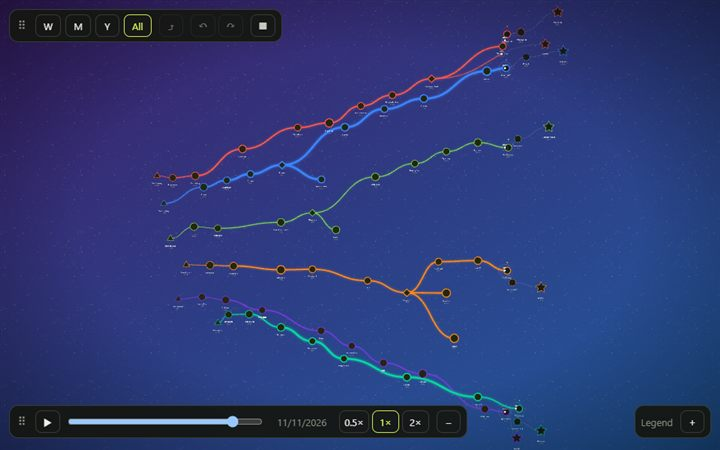
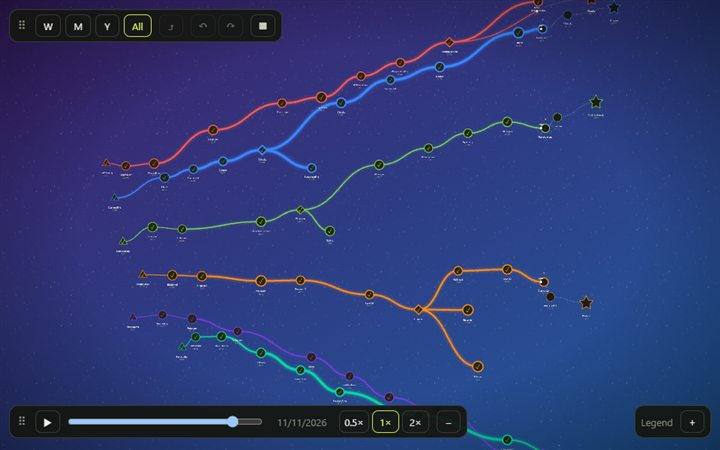
docs: what your app does, heights from the lane, check mark, new screenshots
The section Not in this version is now What your app does. README and CHANGELOG describe the heights and the check mark. Two screenshots with the check marks.

diff --git a/README.md b/README.md
@@ -165,17 +165,18 @@ The [live demo](https://marcus-koch-fs-dev.github.io/world-of-evolving-paths/) s
 | ---------------------------- | ---------------------------------------------------------------------------------------------------------------------------------------------------------------------------- |
 | Insert a point into a line   | Click or right-click the line → **Insert point**. The new point sits between the two points, on the date where you clicked.                                                  |
 | Move a line                  | Drag the arrow at its end, at the edge of the view, up or down. A line without a point in the view moves as a whole. A line from a point moves only its end at the edge.     |
-| Keep the height of a line    | Nothing to do. The height is kept for that connection, in every view.                                                                                                        |
+| Keep the height of a line    | Nothing to do. A dragged end is kept for that period. Without one, the line runs straight to the heights of its points, in week and month alike.                             |
 | See a path that skips a view | A path with points before and after the period, but none inside, runs across the whole view, with the names and dates at both ends. At a fork each branch gets its own line. |
 | Keep lines apart             | Nothing to do. Lines that would lie on top of each other move apart by themselves.                                                                                           |
 
 **Paths grow**
 
-| I want to …             | Do this                                                                                     |
-| ----------------------- | ------------------------------------------------------------------------------------------- |
-| Check in on a path      | Select a point of the path, then the **Check in** button at the bottom right. Once per day. |
-| See what a check-in did | A message at the top shows the active days before and after and what the next tier needs.   |
-| Undo or redo            | The arrow buttons in the top bar, or Ctrl+Z and Ctrl+Y. Up to 100 steps, kept in memory.    |
+| I want to …             | Do this                                                                                                                                   |
+| ----------------------- | ----------------------------------------------------------------------------------------------------------------------------------------- |
+| Check in on a path      | Select a point of the path, then the **Check in** button at the bottom right. Once per day.                                               |
+| Tell done from open     | A point you reached has a check mark in its symbol. The point you are walking to pulses with an arrow, and a point still ahead is dashed. |
+| See what a check-in did | A message at the top shows the active days before and after and what the next tier needs.                                                 |
+| Undo or redo            | The arrow buttons in the top bar, or Ctrl+Z and Ctrl+Y. Up to 100 steps, kept in memory.                                                  |
 
 **Moving around**
 
@@ -278,20 +279,22 @@ You give points without positions and the library lays them out:
 - Points keep `radius + radius` from each other and stay off foreign lines. Lines may cross.
 - The same input and `seed` always give the same layout. Change `seed` for another one.
 
-**Fixing a position (pinning).** A point with `x` and `y` stays exactly there, the others make room around it. A point with only `y` keeps its height and sits on its date along the time axis. That is the way to keep a height in every view, because the date gives a different `x` in a week than in a year. When the user drops a dragged point, `onPointMove` tells you where it ended up, and `positions` holds every point of the view. Store them and pass them back to keep the layout as the user sees it.
+**Heights.** Every path has a lane, and where the lane lies depends on how many paths the view shows: a path can be the first of two in a week and the third of six in the overview. So heights in your data are **distances from the lane of the path** (0 = on the lane, negative = above when time runs left to right). The same number puts a point or a line at the same place next to its path in every view and on every page.
+
+**Fixing a position (pinning).** A point with only `y` sits on its date along the time axis, `y` away from its lane. That is the way to keep a height in every view. When the user drops a dragged point, `onPointMove` gives that height as `offset`: store it per point and pass it back as `y`. A point with `x` and `y` is different: it stays exactly at that place of this one view, and the others make room around it. `positions` in `onPointMove` holds every point of the view for that case.
 
 By default a dragged point moves only across the time axis (`timeLocked: true`), so it always stays on its date and agrees with the marker for today. Set `timeLocked: false` to let it move freely. With `snap` (a distance in world units) dragged and added points sit on a grid.
 
-**Lines the user moves.** Lines that run along the time axis (the lines that leave the view and the ones in `through`) keep apart from each other by themselves. The user can drag the arrow at the end of such a line up or down. `onLineEndMove({ from, to, y })` then tells you the two points of that connection and the new height. Store it and pass it back as `y` on the lead (in `incoming` or `outgoing`) or on the entry in `through`. The line stays where it was dragged until your new data arrives.
+**Lines the user moves.** Lines that run along the time axis (the lines that leave the view and the ones in `through`) keep apart from each other by themselves. The user can drag the arrow at the end of such a line up or down. `onLineEndMove({ from, to, y })` then tells you the two points of that connection and the new height, as a distance from the lane. Store it and pass it back as `y` on the lead (in `incoming` or `outgoing`) or on the entry in `through`. The line stays where it was dragged until your new data arrives. The edge of a week lies on another day than the edge of a month, so keep this height per period. The demo does, and without a stored height it puts the edge on the straight line between the heights of the two points (`demo/app-logic/edgeHeight.ts`), so week and month agree.
 
-**Clicking a line.** `onLineSelect({ from, to, x, y, date, at })` comes when the user clicks or right-clicks a line: a connection between two points, a line that leaves the view, or one that spans it. `from` and `to` are its two ends (`{ id?, title, date }`), `date` is the date where it was clicked. Show a `LineMenu` at `at`, for example with **Insert point**. The demo inserts a point there and puts it between the two points in `next`.
+**Clicking a line.** `onLineSelect({ from, to, x, y, date, lanes, at })` comes when the user clicks or right-clicks a line: a connection between two points, a line that leaves the view, or one that spans it. `from` and `to` are its two ends (`{ id?, title, date }`), `date` is the date where it was clicked, and `lanes` the lane of every path, so `y - lanes[pathId]` is the height for a new point. Show a `LineMenu` at `at`, for example with **Insert point**. The demo inserts a point there and puts it between the two points in `next`.
 
 > [!WARNING]
 > Answer a move with a **new** `PeriodData` object within 80 ms, otherwise the point moves back. Changing the old object in place does not count, the map compares by reference. See [Events](#events).
 
 ### Add points and paths
 
-- The user double-clicks the empty area: `onPointAdd({ x, y, date })` tells you where. You decide whether and how to add a point.
+- The user double-clicks the empty area: `onPointAdd({ x, y, date, lanes })` tells you where. You decide whether and how to add a point. `y - lanes[pathId]` is its height for the path you put it on.
 - The user double-clicks a point: `onPointDoubleClick({ id, date })` tells you which one. The demo uses it to go one level deeper, to the period of that date.
 - The `PointMenu` control has a **Next point** panel. It calls your `onAddNext({ title, date, newPath, color, pathName })`. With `newPath` you create a new `Path` with that color and `pathName` (if empty, use the title) and put the point on it. Without it, the point joins the path of the selected point.
 - A new path is just another entry in `paths`. Give it an `id`, a `name`, a `color` and its points.
@@ -359,8 +362,8 @@ The option `orientation` sets which way time runs: `horizontal` (left to right),
 | `note`       | `string` (optional)                               | Free text for your app.                                                                                                                                                                         |
 | `strength`   | `number` (0–4, optional)                          | Tier of the connection leading to this point. See [Make paths stronger](#make-paths-stronger).                                                                                                  |
 | `incoming`   | `{ title, date, id?, y? }[]` (optional)           | Points outside this view that lead to this point. The map draws a line from the edge, with title and date. See [Show where a path comes from and goes](#show-where-a-path-comes-from-and-goes). |
-| `outgoing`   | `{ title, date, id?, y? }[]` (optional)           | Points outside this view that this point leads to. The map draws a line to the edge, with title and date. `y` is the height of the line at the edge (see `onLineEndMove`).                      |
-| `x`, `y`     | `number` (optional)                               | Pins the point. Both: exactly there. Only `y`: at this height, on its date. `x` needs `y`.                                                                                                      |
+| `outgoing`   | `{ title, date, id?, y? }[]` (optional)           | Points outside this view that this point leads to. The map draws a line to the edge, with title and date. `y` is the height of the line at the edge, from the lane (see `onLineEndMove`).       |
+| `x`, `y`     | `number` (optional)                               | Only `y`: the height from the lane of the path, on its date, in every view. Both: exactly there in this view. `x` needs `y`.                                                                    |
 
 **`Path`** is one graph with its points: `{ id, name, color, lane?, points, through? }`. `through` lists the connections that span the whole period without a point inside (`PathThrough`, see [Show where a path comes from and goes](#show-where-a-path-comes-from-and-goes)). `color` is `#rrggbb` and stays the same along the whole path. Paths are placed one below the other by `lane` (lowest number first), otherwise in list order.
 
@@ -377,12 +380,12 @@ All events are options of `PathWorld` and `createPathWorld`.
 | Callback                                                | When                                                                                                                                                                                                                                            |
 | ------------------------------------------------------- | ----------------------------------------------------------------------------------------------------------------------------------------------------------------------------------------------------------------------------------------------- |
 | `onSelect(id \| null)`                                  | A point was pressed (also when it is then dragged), or the empty area was clicked (`null`).                                                                                                                                                     |
-| `onPointMove({ id, x, y, positions })`                  | A dragged point was released at its final position.                                                                                                                                                                                             |
-| `onPointAdd({ x, y, date })`                            | The empty area was double-clicked. In a calendar view `date` follows the horizontal position, otherwise it is today. `x`/`y` are map coordinates (not screen pixels), already moved to a free spot.                                             |
+| `onPointMove({ id, x, y, offset, positions })`          | A dragged point was released at its final position. `offset` is its height from the lane of its path: pass it back as `y` to keep it in every view.                                                                                             |
+| `onPointAdd({ x, y, date, lanes })`                     | The empty area was double-clicked. In a calendar view `date` follows the horizontal position, otherwise it is today. `x`/`y` are map coordinates (not screen pixels), already moved to a free spot. `lanes` holds the lane of every path.       |
 | `onPointDoubleClick({ id, date })`                      | A point was double-clicked. `date` is the date of the point. Your app decides what happens, for example a finer view.                                                                                                                           |
 | `onLeadDoubleClick({ pointId, side, title, date, id })` | A line that leaves the view was double-clicked, on its text or on the line. `side` is `'before'` for a line that comes from outside and `'after'` for one that goes on. `title`, `date` and `id` are what you gave in `incoming` or `outgoing`. |
-| `onLineSelect({ from, to, x, y, date, at })`            | A line was clicked or right-clicked. `from` and `to` are its ends, `x`/`y`/`date` the place on the line, `at` the place for a `LineMenu`. See [Keep the layout](#keep-the-layout).                                                              |
-| `onLineEndMove({ from, to, y })`                        | The arrow at the end of a line that leaves or spans the view was dragged and let go. Pass `y` back on the lead or on the `through` entry.                                                                                                       |
+| `onLineSelect({ from, to, x, y, date, lanes, at })`     | A line was clicked or right-clicked. `from` and `to` are its ends, `x`/`y`/`date` the place on the line, `lanes` the lane of every path, `at` the place for a `LineMenu`. See [Keep the layout](#keep-the-layout).                              |
+| `onLineEndMove({ from, to, y })`                        | The arrow at the end of a line that leaves or spans the view was dragged and let go. `y` is the height from the lane. Pass it back on the lead or on the `through` entry.                                                                       |
 | `onError(errors)`                                       | The data of the current view is invalid, or an option such as `today`, `locale` or a background color is invalid (it is then replaced by its default).                                                                                          |
 
 Update your data in these callbacks and pass the new objects back in. The data is yours. If you do not answer a move within 80 ms with a **new** `PeriodData` object for the current view, the point moves back to where it was. Changing the old object in place does not count, the map compares by reference. Sometimes a point cannot stay where it was dropped (no room, or on a foreign line). Then it moves back along its way until it finds a free spot. That spot is what `onPointMove` reports.
@@ -531,9 +534,16 @@ Besides what is shown above, the package exports helpers you may want for your o
 - The first layout of a view costs time with many points: about 150 ms for 200 points and well over a second beyond 500, when none of them is pinned. Pinned points cost almost nothing, so store the positions the user chose (see `onPointMove`). Plan on views with a few dozen points.
 - Adding a point to a path can make the view wider and move points that are not pinned. Pin points to keep them where they are.
 
-### Not in this version
+### What your app does
 
-Undo and redo belong in your app, and so does passing changes on between week, month and year data. The library never changes your data. The demo shows one way to do undo and redo (`demo/app-logic/history.ts`). Controls are provided for React only; the map itself works with any framework.
+The library draws and reports, your app holds the state. That is a choice, not a gap:
+
+- **Undo and redo** work on your state. The demo keeps a history of its states (`demo/app-logic/history.ts`, `stateHistory.ts`).
+- **Saving and loading** are yours, in whatever store you use.
+- **Week, month and year** are views of the same data. Keep one list of points and build each view from it, filtered by date and importance, as the demo does (`demo/app-logic/periodData.ts`).
+- **Heights** the user chose come back through `onPointMove` (`offset`) and `onLineEndMove` (`y`). Store them, per point and per period, and pass them back.
+
+Controls are provided for React only; the map itself works with any framework.
 
 ## 🔧 Contributing
 

diff --git a/CHANGELOG.md b/CHANGELOG.md
@@ -9,13 +9,15 @@
 - New event `onLineEndMove({ from, to, y })`: the user dragged the arrow at the end of a line up or down. Pass `y` back on the lead (`Lead.y`) or on the `through` entry to keep the line there.
 - New event `onLineSelect({ from, to, x, y, date, at })`: a line was clicked or right-clicked. New React control `LineMenu` for a tile menu at that place.
 - New option `timeLocked` (default `true`): a dragged point stays on its date and only moves across the time axis.
-- A point with only `y` keeps its height and sits on its date, so a height can hold in every view.
+- Heights in the data are distances from the lane of the path, not world positions: `y` alone on a point, `Lead.y` and `PathThrough.y`. The same number now fits every view and page. A point with only `y` sits on its date at that distance from its lane. `onPointMove` gives the new `offset`, `onPointAdd` and `onLineSelect` give `lanes`, and `onLineEndMove` reports `y` from the lane.
 - New option `snap`: dragged and added points snap to a grid.
 - The marker for today shows only in a view that holds today, on the right day of each line.
 - The year level can span 1 to 10 years: `periodOf('year', date, { years })`, key `year:YYYY-01-01+N`.
 - `ViewBar`: new props `levelChips`, `freeLast`, `afterLevels` and `periodSlot`. Level buttons can have a `title`.
 - `Toast` can show a button (`action`).
 - Lines are easier to hit when the view is zoomed out.
+- A point that is done shows a check mark in its symbol, in the color of its path. Before only a reached goal did.
+- Lines put at a height still move apart when two of them would lie on top of each other.
 
 ### Demo
 
@@ -23,7 +25,7 @@
 - The demo offers week, month and year. Day and half year are gone from the demo, not from the library.
 - A legend in the corner shows from which view on a point of each importance appears. It starts closed.
 - If a changed importance hides a point, a message says where it shows, with a button to go there.
-- Points move only up and down and keep their height in every view. Line heights are kept per connection.
+- Points move only up and down and keep one height in every view. Where a line meets the edge is kept per period; without a dragged height it follows the heights of the two points.
 - Click or right-click a line to insert a point there. Deleting a point keeps its path connected.
 - Snap to grid in the settings.
 
